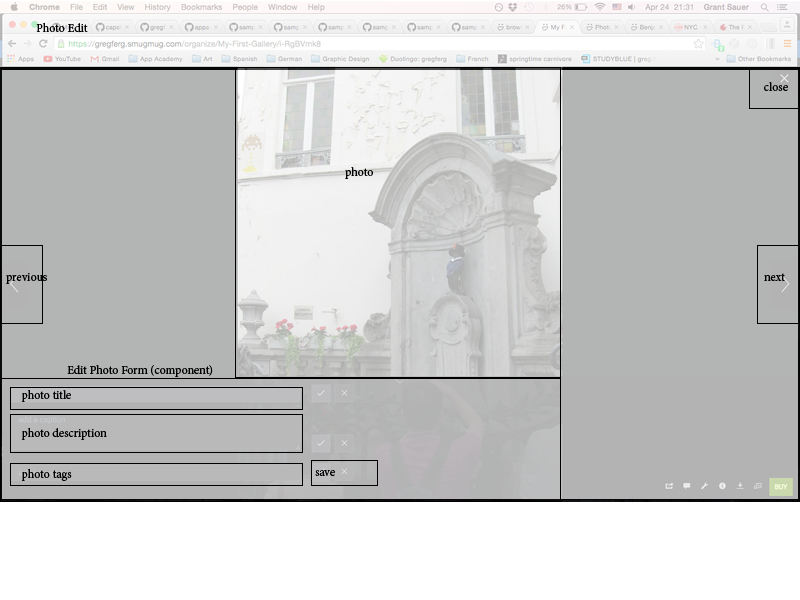
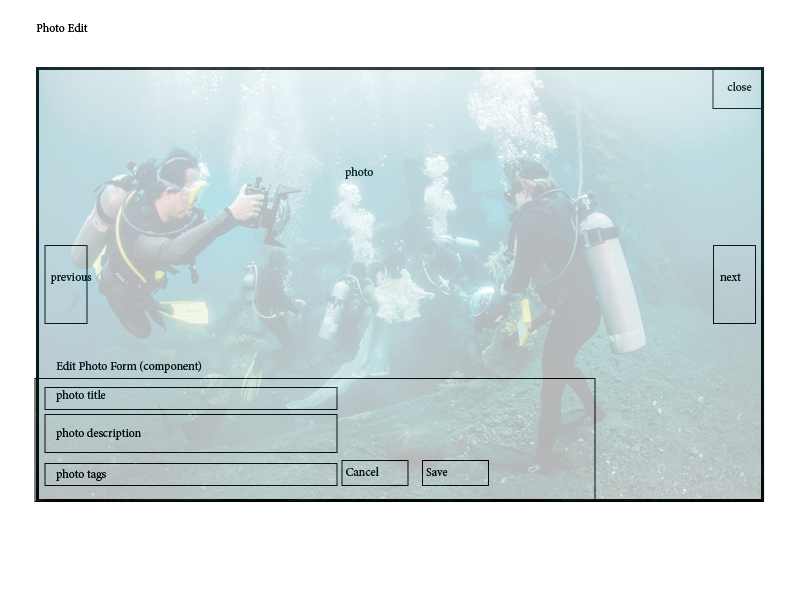
updated wireframes

diff --git a/docs/views.md b/docs/views.md
@@ -11,31 +11,39 @@
 
 ## Home Page
 ![homepage]
+![homepage_edit]
+![homepage_edit_new_album]
 
 ## Album Show
-![album_show]
+![album_detail_edit]
+![album_detail_edit_addphotos]
+![album_detail_edit_withphotos]
+![album_detail_edit_withphotos_two]
+![album_detail_edit_withphotos_three]
+![album_detail]
 
 ## Photo Detail
-![photo_detail_mod]
-![photo_detail_mod_hover]
+![photo_detail]
+![photo_detail_hover]
+![photo_detail_edit]
 
-## Home Page Edit
-![home_page_edit]
-
-## Album Edit
-![album_edit]
-
-## Photo Edit
-![photo_edit]
 
 
 [splash]: ./wireframes/splash.jpg
 [signup]: ./wireframes/signup.jpg
 [login]: ./wireframes/login.jpg
 [homepage]: ./wireframes/homepage.jpg
-[album_show]: ./wireframes/album_show.jpg
-[photo_detail_mod]: ./wireframes/photo_detail_mod.jpg
-[photo_detail_mod_hover]: ./wireframes/photo_detail_mod_hover.jpg
+[homepage_edit]: ./wireframes/homepage_edit.jpg
+[homepage_edit_new_album]: ./wireframes/homepage_edit_new_album.jpg
+[album_detail_edit]: ./wireframes/album_detail_edit.jpg
+[album_detail_edit_addphotos]: ./wireframes/album_detail_edit_addphotos.jpg
+[album_detail_edit_addphotos]: ./wireframes/album_detail_edit_addphotos.jpg
+[album_detail_edit_withphotos]: ./wireframes/album_detail_edit_withphotos.jpg
+[album_detail_edit_withphotos_two]: ./wireframes/album_detail_edit_withphotos_two.jpg
+[album_detail_edit_withphotos_three]: ./wireframes/album_detail_edit_withphotos_three.jpg
+[album_detail]: ./wireframes/album_detail.jpg
+[photo_detail]: ./wireframes/photo_detail.jpg
+[photo_detail_hover]: ./wireframes/photo_detail_hover.jpg
+[photo_detail_hover]: ./wireframes/photo_detail_hover.jpg
+[photo_detail_edit]: ./wireframes/photo_detail_edit.jpg
 [home_page_edit]: ./wireframes/home_page_edit.jpg
-[album_edit]: ./wireframes/album_edit.jpg
-[photo_edit]: ./wireframes/photo_detail_edit.jpg
